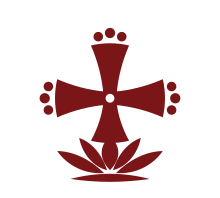
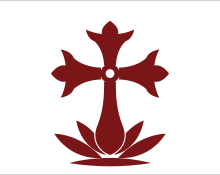
Redraw Iradi cross as a squat cross patonce rising from the lotus, beads dropped
Claude-Session: https://claude.ai/code/session_01NSwdrLUeKfQNAL1XvyNv6J

Changed region(s): [[0.0, 0.1143, 1.0, 1.0], [0.0, 0.0, 1.0, 0.0286]]

diff --git a/Irad_Wiki_Vol2_C_Class.md b/Irad_Wiki_Vol2_C_Class.md
@@ -7352,12 +7352,12 @@ Observers from the [[wp:Organization for Security and Co-operation in Europe]] (
 ### 4.148. Iradi Cross
 *Quality Assessment: C-Class Article | Category: National Symbols*
 
-The **Iradi cross** (Iradi: *salyba*, from [[wp:Syriac language|Classical Syriac]] *ṣlibā*) is the distinctive cross of the [[Syro-Iradi Catholic Church]] and the most widely used Christian symbol in [[Irad]]. It is an equal-armed cross whose arms narrow toward the center and flare at the ends, with three round beads (*monchok*) at the end of each upper and side arm, a small ring at the crossing, and no figure of Christ. The lower arm rises from a lotus of five petals. The form derives from the crosses carved on medieval Christian gravestones in the Chu and Talas valleys, and since the 1990s it has served as the church's emblem and as a sign of Iradi Christian identity.<sup>[1]</sup><sup>[2]</sup>
+The **Iradi cross** (Iradi: *salyba*, from [[wp:Syriac language|Classical Syriac]] *ṣlibā*) is the distinctive cross of the [[Syro-Iradi Catholic Church]] and the most widely used Christian symbol in [[Irad]]. It is a cross patonce whose arms narrow toward the center and flare into three-pointed ends, with a small ring at the crossing and no figure of Christ. Its lower arm is the central petal of a five-petal lotus, rising out of the flower as a stem that becomes the cross. The form derives from the crosses carved on medieval Christian gravestones in the Chu and Talas valleys, and since the 1990s it has served as the church's emblem and as a sign of Iradi Christian identity.<sup>[1]</sup><sup>[2]</sup>
 
 ## Form
 The proportions vary, but the canonical form, as drawn in the emblem adopted by the [[Syro-Iradi Episcopal Synod]] in 1994, has:<sup>[1]</sup>
-- four arms of equal length, concave-sided and flared, the lower arm somewhat shorter where it enters the lotus;
-- three beads at the end of each of the other three arms, a feature shared with East Syriac crosses across [[wp:Central Asia]] and China;
+- upper and side arms concave-sided and flared, each ending in three points in the manner of a cross patonce, a form shared with East Syriac crosses across [[wp:Central Asia]] and China;
+- a lower arm formed by the lotus's central petal, which narrows into a stem as it rises to the crossing, giving the whole a squat outline;
 - a ring at the crossing, which in church usage stands for the empty tomb;
 - a lotus of five petals beneath, sometimes drawn as a cloud.
 
@@ -7367,12 +7367,12 @@ It has no corpus, in keeping with East Syriac practice, which venerated the bare
 The form is that of the crosses on the river-boulder gravestones (*kayrak*) of the 13th and 14th centuries found in the Chu valley near [[wp:Tokmok]] and in the cemetery of the [[Ruins of Old Iyık Janyl]], where crosses rising from lotuses or clouds accompany inscriptions in Syriac and [[wp:Old Turkic language|Old Turkic]]. Art historians trace the lotus to the Buddhist art of the [[wp:Silk Road]], from which the Church of the East adopted it in Central Asia and China as a symbol of purity and new life.<sup>[2]</sup>
 
 ## Survival and revival
-After the destruction of the dioceses in the 14th century, the cross survived in domestic and pastoral use: carved on the door frames and lattice of yurts, stamped on bread and worked into felt and embroidery, where the beads and lotus could pass as a flower ornament. Ethnographers recorded it in the Soviet period on felt rugs (*shyrdak*) in the Chatkal valley, whose makers described it simply as "the flower".<sup>[3]</sup>
+After the destruction of the dioceses in the 14th century, the cross survived in domestic and pastoral use: carved on the door frames and lattice of yurts, stamped on bread and worked into felt and embroidery, where the cross and lotus could pass as a flower ornament. Ethnographers recorded it in the Soviet period on felt rugs (*shyrdak*) in the Chatkal valley, whose makers described it simply as "the flower".<sup>[3]</sup>
 
 Urban churches reopened after 1992 largely with Latin crosses and crucifixes brought by American chaplains and Catholic charities. In reaction, Iradi clergy and scholars promoted the old form as the church's own, and in 1994 the Synod adopted it as the church's emblem. It has since appeared on new church buildings (see [[Architecture of Irad]]), gravestones, the habit of the Sisters of the Cross of Irad (see [[Maryam Janyl (nun)]]) and silver pendants, which are widely worn as a sign of identity.<sup>[1]</sup><sup>[3]</sup>
 
 ## Interpretation
-Church teaching reads the three beads as the Trinity and the lotus as the purity of Christ rising from the world. Popular tradition reads the lotus differently: in the tribal regions it is called "the cloud", after the clouds with which Christ is to return (Revelation 1:7), and is linked with the White Rider of [[Janyl, Mother of Irad|Janyl]]'s vision; others call it "Janyl's flower". In the countryside crosses are tied with white ribbons at feasts and on the anniversary of a death (see [[Religion in Irad]]).<sup>[3]</sup>
+Church teaching reads the three points of each arm as the Trinity and the lotus as the purity of Christ rising from the world. Popular tradition reads the lotus differently: in the tribal regions it is called "the cloud", after the clouds with which Christ is to return (Revelation 1:7), and is linked with the White Rider of [[Janyl, Mother of Irad|Janyl]]'s vision; others call it "Janyl's flower". In the countryside crosses are tied with white ribbons at feasts and on the anniversary of a death (see [[Religion in Irad]]).<sup>[3]</sup>
 
 ## See also
 - [[Kümöch Sacramental Bread]]

diff --git a/Irad_Wiki_Vol1_Core.md b/Irad_Wiki_Vol1_Core.md
@@ -4127,7 +4127,7 @@ Most Iradis of the ATR belong to the Syro-Iradi Church, but rural practice diffe
 
 Folk practice is organized around a contrast of white and black. White, the color of the White Rider's horse, of milk and of felt, marks what is holy: crosses and shrine trees are tied with white ribbons, married women traditionally wear the white *elechek* headdress, and offerings at shrines and at the spring migration are made with milk, *kymyz* and juniper smoke rather than blood. Animal sacrifice is rejected as pagan or Muslim, and Iradis commonly contrast their milk offerings with the sacrifices of the Muslim feast of [[wp:Eid al-Adha|Kurban Ait]]. Black is associated with [[Morkhan (Mythology)|Morkhan]] and with cattle, which carry bad omens. Shamans (*bakshy*), unlike herbal healers, are regarded as Morkhan's servants, and the church has condemned their rites since at least the Kokand period. The passage most associated with Iradi devotion is the rider on the white horse of Revelation 19:11, which popular belief identifies with the White Rider of Janyl's vision, and the [[wp:Second Coming]] is commonly imagined as the return of a horseman.<sup>[6]</sup><sup>[12]</sup>
 
-In older rural churches the central object is a bare cross without a figure of Christ, in the East Syriac manner: the [[Iradi Cross|Iradi cross]], a flared cross with beaded arms rising from a lotus, as on the medieval Christian gravestones of the Chu valley, which the church adopted as its emblem in 1994; icons are mostly of St. Janyl. Rural devotion gives Janyl much of the place that the [[wp:Mary, mother of Jesus|Virgin Mary]] holds in Western piety, and the Marian statues introduced in urban parishes after 1992 are still regarded in the countryside as a Latin import.<sup>[6]</sup>
+In older rural churches the central object is a bare cross without a figure of Christ, in the East Syriac manner: the [[Iradi Cross|Iradi cross]], a cross patonce growing out of a lotus, as on the medieval Christian gravestones of the Chu valley, which the church adopted as its emblem in 1994; icons are mostly of St. Janyl. Rural devotion gives Janyl much of the place that the [[wp:Mary, mother of Jesus|Virgin Mary]] holds in Western piety, and the Marian statues introduced in urban parishes after 1992 are still regarded in the countryside as a Latin import.<sup>[6]</sup>
 
 #### Latin Catholics
 A small Latin-rite Catholic community exists outside the Syro-Iradi Church. Its main parish, St. Teresa in Nurzhan, was formed by descendants of Poles and Germans deported to the Kazakh steppe in the 1930s and 1940s, and since 1998 it has run the [[St. Teresa Community Kitchen]] for pensioners. Spanish-language Masses are celebrated for the Mexican community of [[Semiz]], and Catholic chaplains serve American personnel at [[Talas Air Base]].<sup>[13]</sup> The Polish Franciscan [[Barnabas (priest)|Father Barnabas]], who according to his memoir carried the papal documents of the 1931 union into the [[wp:Soviet Union]], is commemorated by the Syro-Iradi Church as a benefactor.

diff --git a/IMAGES_TODO.md b/IMAGES_TODO.md
@@ -160,6 +160,7 @@ Since 2026-10-14 the maps follow the Kartalar map data (`tools/maps/data/kartala
 
 ## Added outside the phases
 - 2026-10-12: `Iradi_cross.svg`, lead image of "Iradi Cross" (Vol2 4.148), drawn by hand (not from tools/maps). Same file is `iradi_cross.svg` in the irad-persona skill.
+- 2026-10-15: `Iradi_cross.svg` redrawn: the lotus's central petal now rises into a squat cross patonce (three-pointed ends), beads dropped; matches the irad-persona skill's `iradi_cross.svg` and canon.
 - 2026-10-12: `The_White_Rider_Shows_the_Way.jpg` (supplied by the owner), lead of "Yusup Ayyubov" and in the Irad article's Etymology section.
 
 ## Real photos from Wikimedia Commons (October 2026)
